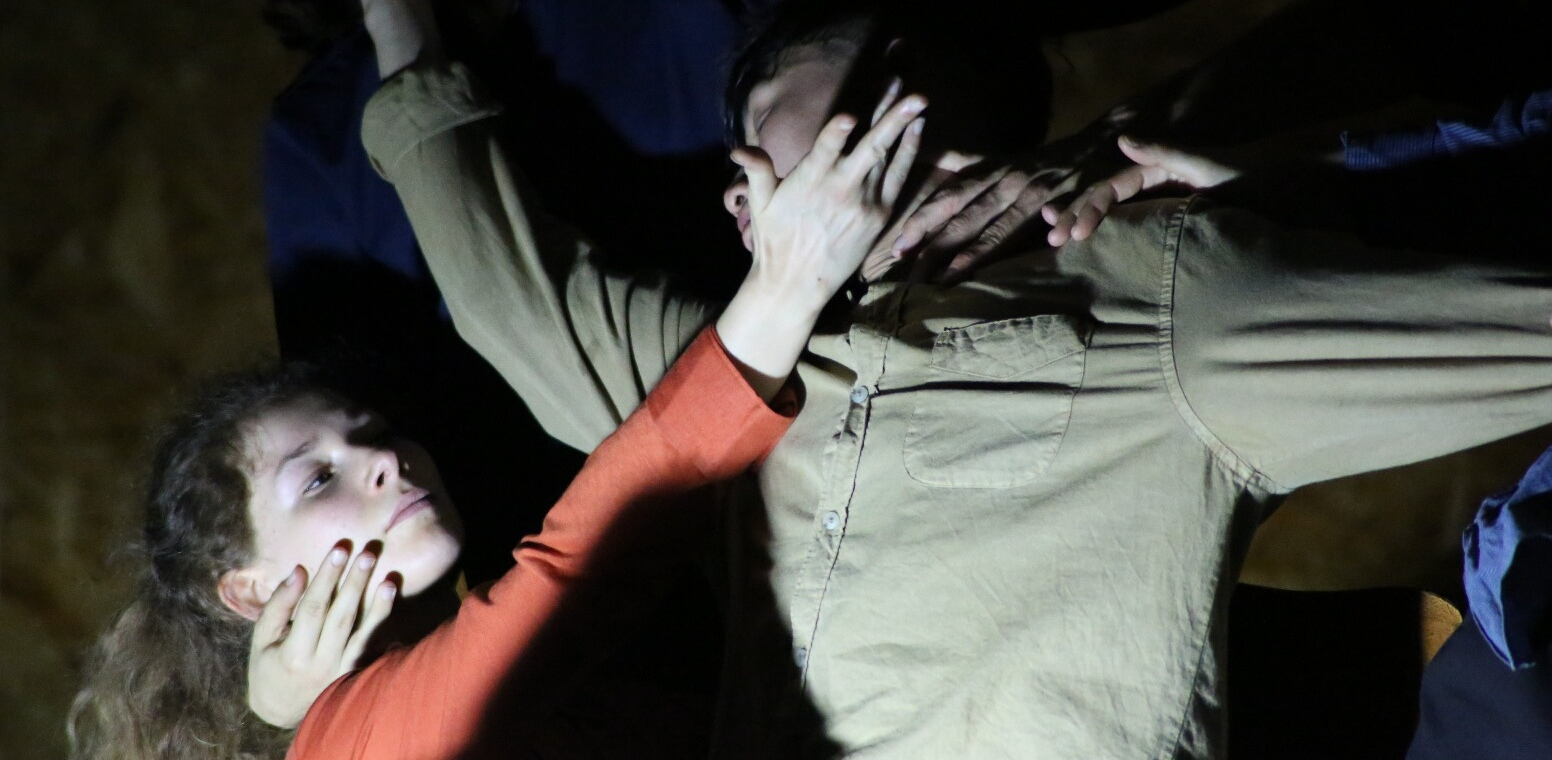
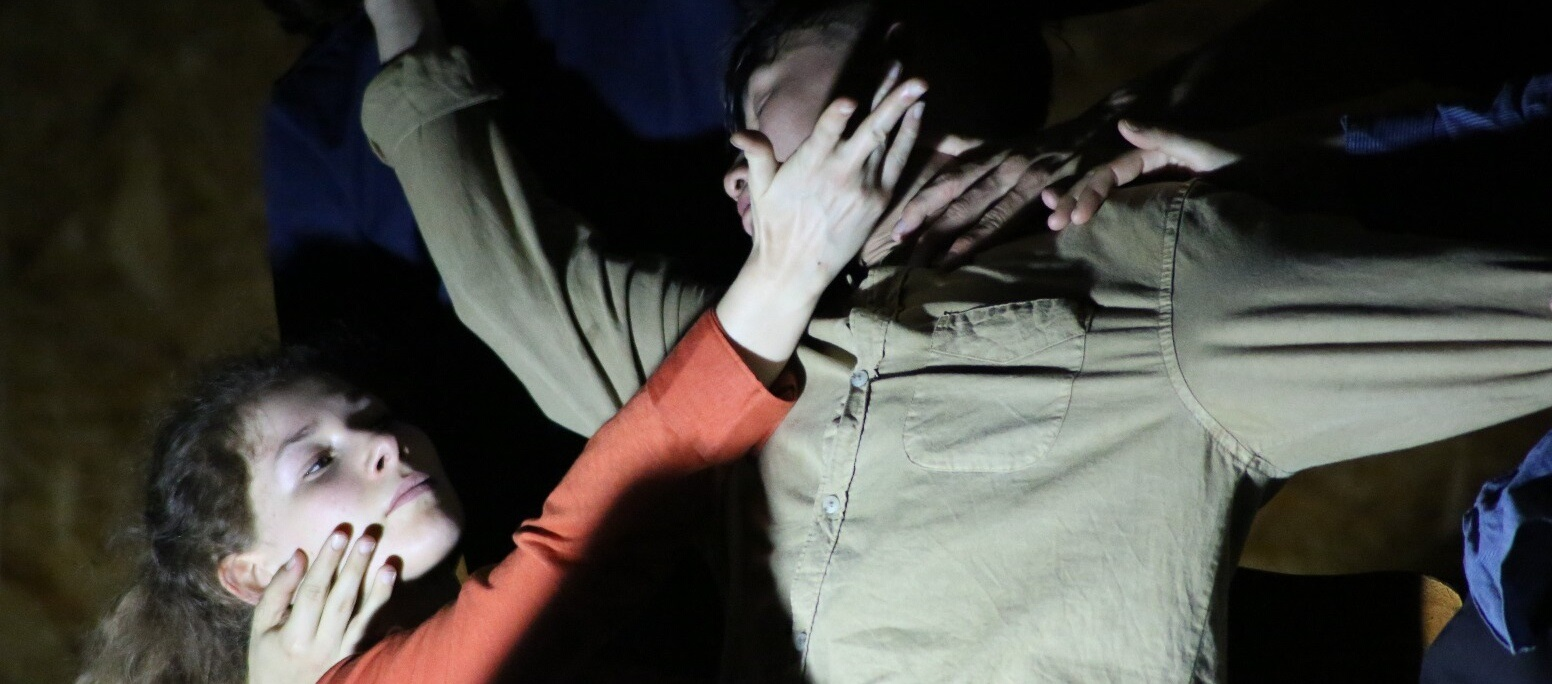
carousel fix

diff --git a/index.html b/index.html
@@ -31,11 +31,11 @@
 						</div> -->
 						
 						<!-- Intro -->
-						<div class="content">
+						<div class="content first-container">
 							<div class="inner">
 								<h1>Multiplicidades</h1>
 								
-								<!-- Slideshow container 
+								<!-- Slideshow container  -->
 								<div class="slideshow-container">
 								
 								  <div class="mySlides fade">
@@ -43,7 +43,7 @@
 								  </div>
 
 								  <div class="mySlides fade">
-									<span class="image main"><img src="images/carousel/0B0A0422.JPG" style="width:100%"></span>
+									<span class="image main"><img src="images/carousel/rsz_0b0a0422.jpg" style="width:100%"></span>
 								  </div>
 
 								  <div class="mySlides fade">
@@ -53,7 +53,7 @@
 								  <a class="prev" onclick="plusSlides(-1)">&#10094;</a>
 								  <a class="next" onclick="plusSlides(1)">&#10095;</a>
 								</div>
-								<br> -->
+								<br>
 								
 								<p><strong>Multiplicidades - Festival Internacional de Artes Performativas</strong> é uma semana intensiva 
 								<br />de intervenções artísticas na municipalidade de Santa Cruz, Torres Vedras, gratuitas ao público
@@ -142,56 +142,19 @@
 							<article id="Poder">
 								<h2 class="major title-center">Domingo 23 - Poder</h2>
 								<div class="image-link-container">
-									<span class="image main image-link"><a href="#plastic"><img src="images/plastic.jpg" alt="" />Plastic Empire</a></span>
-									<span class="image main image-link"><a href="#parade"><img src="images/parade.jpg" alt="" />PARADE</a></span>
-									<span class="image main image-link"><a href="#eidos"><img src="images/eidos.JPG" alt="" />Eidos Bios</a></span>
-									<span class="image main image-link"><a href="#musicanarua"><img src="images/musicanarua.JPG" alt="" />Musica na Rua</a></span>
+								
+									<span class="image main image-link"><a href="#plastic"><img src="images/plastic.jpg" alt="" />
+										<p>Plastic Empire - 17h00</p></a></span>
+									<span class="image main image-link"><a href="#parade"><img src="images/parade.jpg" alt="" />
+										<p>PARADE - 17h00</p></a></span>
+									<span class="image main image-link"><a href="#eidos"><img src="images/eidos.JPG" alt="" />
+										<p>Eidos Bios - 17h00</p></a></span>
+									<span class="image main image-link"><a href="#musicanarua"><img src="images/musicanarua.JPG" alt="" />
+										<p>Musica na Rua - 17h00</p></a></span>
 								</div>
 							</article>
-
-						<!-- Segunda 24 - Intimidade -->
-							<article id="Intimidade">
-								<h2 class="major title-center">Segunda 24 - Intimidade</h2>
-								
-								<span class="image main image-link"><a href="#whoisright"><img src="images/pic02.jpg" alt="" />Who is right?</a></span>
-								<span class="image main image-link"><a href="#helmetson"><img src="images/pic02.jpg" alt="" />Put your helmets on!</a></span>
-							</article>
-
-						<!-- Segunda 25 - Saudade -->
-							<article id="Saudade">
-								<h2 class="major title-center">Segunda 25 - Saudade</h2>
-								
-								<span class="image main image-link"><a href="#whoisright"><img src="images/pic02.jpg" alt="" />Who is right?</a></span>
-								<span class="image main image-link"><a href="#helmetson"><img src="images/pic02.jpg" alt="" />Put your helmets on!</a></span>
-							</article>
-
-						<!-- Quarta 26 - Tecnologia -->
-							<article id="Saudade">
-								<h2 class="major title-center">Quarta 26 - Tecnologia</h2>
-								
-								<span class="image main image-link"><a href="#whoisright"><img src="images/pic02.jpg" alt="" />Who is right?</a></span>
-								<span class="image main image-link"><a href="#helmetson"><img src="images/pic02.jpg" alt="" />Put your helmets on!</a></span>
-							</article>
 							
-						<!-- Index - performances
-							Poder - domingo 23
-								
-							Intimidade - segunda 24
-								whoisright - Who is Right
-								helmetson - Put your helmets on!
-							Saudade - terça 25
-								
-							Tecnologia - quarta 26
-								
-							Feminilidade - quinta 27
-								
-							Locura - sexta 28
-								
-							Jogos - sábado 29
-								
-							Tradição - domingo 30
-								
-						-->
+						<!-- Index - performances -->
 						
 						<!-- Title -->
 						<!-- Choreographer -->
@@ -202,7 +165,7 @@
 						<!-- Sinopse -->
 						<!-- ##Gallery -->
 						
-						<!-- Musica na rua -->
+							<!-- Musica na rua -->
 							<article id="musicanarua">
 								<h2 class="major title-center">Musica na rua</h2>
 								<span class="image main"><img src="images/musicanarua.JPG" alt="" /></span>
@@ -218,7 +181,7 @@
 								<p><strong>Sinopse</strong><br />No pólo cultural de Santa Cruz, Pateo da Azenha, será promovido diariamente um acontecimento musical para o deleite dos transeuntes. A intervenção musical chamará atenção para o Ponto de Informação localizado próximo aos músicos. Assim, transeuntes terão fácil acesso às informações acerca do festival e seus eventos.</p>
 							</article>
 						
-						<!-- Plastic Empire -->
+							<!-- Plastic Empire -->
 							<article id="plastic">
 								<h2 class="major title-center">Plastic Empire</h2>
 								<span class="image main"><img src="images/plastic.jpg" alt="" /></span>
@@ -232,7 +195,7 @@
 								<p><strong>Sinopse</strong><br />“...O misterioso império de plástico contra-ataca e invade a praia de Santa Cruz.” Como um alerta à situação ecológica global acerca dos resíduos plásticos, esta assombrosa e silenciosa performance convida-nos a pensar a nossa relação com o oceano.</p>
 							</article>
 						
-						<!-- PARADE -->
+							<!-- PARADE -->
 							<article id="parade">
 								<h2 class="major title-center">PARADE</h2>
 								<span class="image main"><img src="images/parade.jpg" alt="" /></span>
@@ -245,7 +208,7 @@
 									<br />18h - 19h</p>
 							</article>
 						
-						<!-- Eidos Bios -->
+							<!-- Eidos Bios -->
 							<article id="eidos">
 								<h2 class="major title-center">Eidos Bios</h2>
 								<span class="image main"><img src="images/eidos.JPG" alt="" /></span>
@@ -259,7 +222,7 @@
 								<p><strong>Duração</strong><br />15 min</p>
 							</article>
 							
-						<!-- Civilized Solitude -->
+							<!-- Civilized Solitude -->
 							<article id="civilizedsolitude">
 								<h2 class="major title-center">Civilized Solitude</h2>
 								<span class="image main"><img src="images/civilizedsolitude.jpg" alt="" /></span>
@@ -596,15 +559,12 @@
 							Como chegar
 						-->
 						
-					
 						<!-- Nosotros -->
 							<article id="nosotros">
 								<h2 class="major">Nosotros</h2>
-								<span class="image main"><img src="images/pic01.jpg" alt="" /></span>
-								<p>Aenean ornare velit lacus, ac varius enim ullamcorper eu. Proin aliquam facilisis ante interdum congue. Integer mollis, nisl amet convallis, porttitor magna ullamcorper, amet egestas mauris. Ut magna finibus nisi nec lacinia. Nam maximus erat id euismod egestas. By the way, check out my <a href="#work">awesome work</a>.</p>
-								<p>Lorem ipsum dolor sit amet, consectetur adipiscing elit. Duis dapibus rutrum facilisis. Class aptent taciti sociosqu ad litora torquent per conubia nostra, per inceptos himenaeos. Etiam tristique libero eu nibh porttitor fermentum. Nullam venenatis erat id vehicula viverra. Nunc ultrices eros ut ultricies condimentum. Mauris risus lacus, blandit sit amet venenatis non, bibendum vitae dolor. Nunc lorem mauris, fringilla in aliquam at, euismod in lectus. Pellentesque habitant morbi tristique senectus et netus et malesuada fames ac turpis egestas. In non lorem sit amet elit placerat maximus. Pellentesque aliquam maximus risus, vel sed vehicula.</p>
+								<p><strong>Cargo</strong><br />Persona</p>
 							</article>
-
+							
 						<!-- Mapa da Cidade -->
 							<article id="mapacidade">
 								<h2 class="major">Mapa da Cidade</h2>

diff --git a/assets/css/main.css b/assets/css/main.css
@@ -1738,9 +1738,19 @@ input, select, textarea {
 
 * {box-sizing:border-box}
 
+.first-container {
+	border-top-width: 0px !important;
+}
+
+.first-container div {
+	padding-top: 0px !important;
+}
+
+
 /* Slideshow container */
 .slideshow-container {
-	max-height: 300px;
+  
+  max-width: 1000px;
   position: relative;
   margin: auto;
 }
